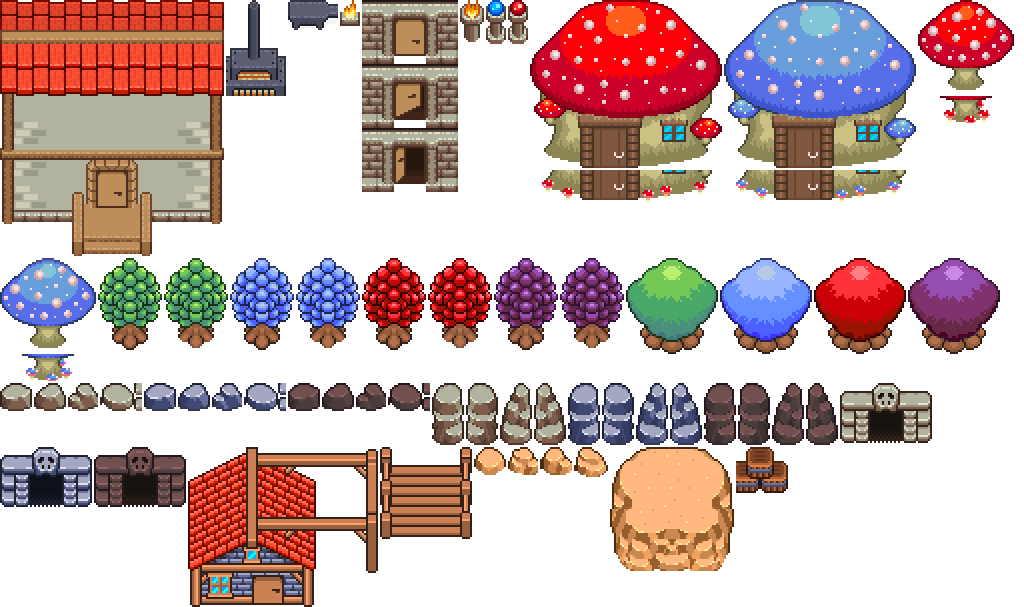
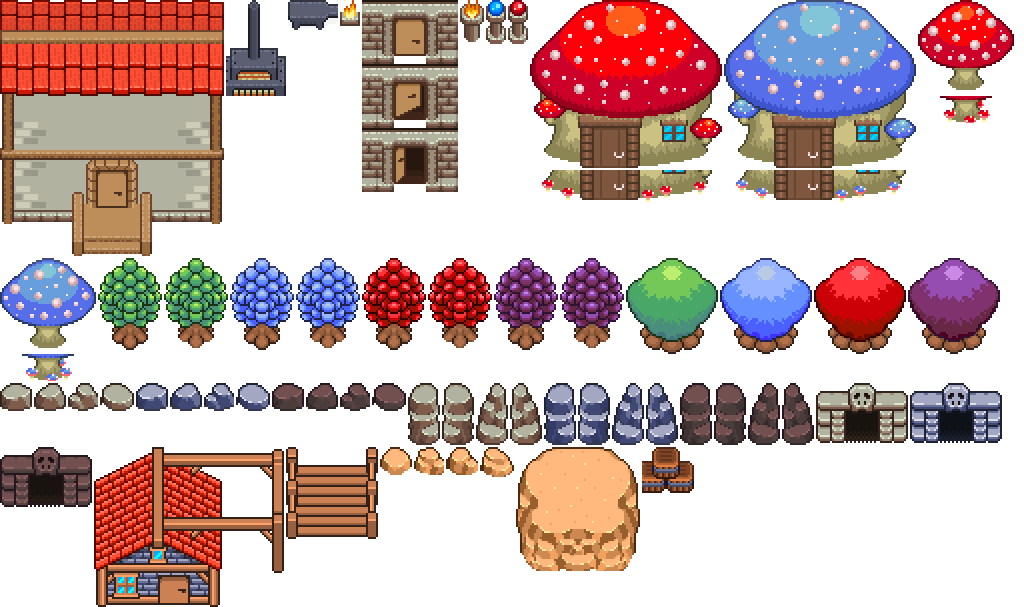
World expansion WIP checkpoint 2 (in progress)
Claude-Session: https://claude.ai/code/session_0116A8vL2QRV3xPtcCSth4E5

Changed region(s): [[0.0, 0.6227, 1.0, 1.0]]

diff --git a/src/ui/art/propAtlas.ts b/src/ui/art/propAtlas.ts
@@ -31,36 +31,36 @@ export const PROP_ATLAS = {
   'rock.beige.1': [0, 383, 32, 28],
   'rock.beige.2': [34, 383, 32, 28],
   'rock.beige.3': [68, 383, 30, 28],
-  'rock.beige.4': [100, 383, 42, 28],
-  'rock.blue.1': [144, 383, 32, 28],
-  'rock.blue.2': [178, 383, 32, 28],
-  'rock.blue.3': [212, 383, 30, 28],
-  'rock.blue.4': [244, 383, 42, 28],
-  'rock.dark.1': [288, 383, 32, 28],
-  'rock.dark.2': [322, 383, 32, 28],
-  'rock.dark.3': [356, 383, 30, 28],
-  'rock.dark.4': [388, 383, 42, 28],
-  'spire.beige.1': [432, 383, 32, 62],
-  'spire.beige.2': [466, 383, 32, 62],
-  'spire.beige.3': [500, 383, 32, 62],
-  'spire.beige.4': [534, 383, 32, 62],
-  'spire.blue.1': [568, 383, 32, 62],
-  'spire.blue.2': [602, 383, 32, 62],
-  'spire.blue.3': [636, 383, 32, 62],
-  'spire.blue.4': [670, 383, 32, 62],
-  'spire.dark.1': [704, 383, 32, 62],
-  'spire.dark.2': [738, 383, 32, 62],
-  'spire.dark.3': [772, 383, 32, 62],
-  'spire.dark.4': [806, 383, 32, 62],
-  'mine.beige': [840, 383, 92, 60],
-  'mine.blue': [0, 447, 92, 60],
-  'mine.dark': [94, 447, 92, 60],
-  'hut': [188, 447, 190, 160],
-  'dock': [380, 447, 92, 92],
-  'rock.orange.1': [474, 447, 32, 28],
-  'rock.orange.2': [508, 447, 30, 28],
-  'rock.orange.3': [540, 447, 32, 28],
-  'rock.orange.4': [574, 447, 34, 30],
-  'mesa.orange': [610, 447, 124, 124],
-  'barrels': [736, 447, 52, 46],
+  'rock.beige.4': [100, 383, 34, 28],
+  'rock.blue.1': [136, 383, 32, 28],
+  'rock.blue.2': [170, 383, 32, 28],
+  'rock.blue.3': [204, 383, 30, 28],
+  'rock.blue.4': [236, 383, 34, 28],
+  'rock.dark.1': [272, 383, 32, 28],
+  'rock.dark.2': [306, 383, 32, 28],
+  'rock.dark.3': [340, 383, 30, 28],
+  'rock.dark.4': [372, 383, 34, 28],
+  'spire.beige.1': [408, 383, 32, 62],
+  'spire.beige.2': [442, 383, 32, 62],
+  'spire.beige.3': [476, 383, 32, 62],
+  'spire.beige.4': [510, 383, 32, 62],
+  'spire.blue.1': [544, 383, 32, 62],
+  'spire.blue.2': [578, 383, 32, 62],
+  'spire.blue.3': [612, 383, 32, 62],
+  'spire.blue.4': [646, 383, 32, 62],
+  'spire.dark.1': [680, 383, 32, 62],
+  'spire.dark.2': [714, 383, 32, 62],
+  'spire.dark.3': [748, 383, 32, 62],
+  'spire.dark.4': [782, 383, 32, 62],
+  'mine.beige': [816, 383, 92, 60],
+  'mine.blue': [910, 383, 92, 60],
+  'mine.dark': [0, 447, 92, 60],
+  'hut': [94, 447, 190, 160],
+  'dock': [286, 447, 92, 92],
+  'rock.orange.1': [380, 447, 32, 28],
+  'rock.orange.2': [414, 447, 30, 28],
+  'rock.orange.3': [446, 447, 32, 28],
+  'rock.orange.4': [480, 447, 34, 30],
+  'mesa.orange': [516, 447, 124, 124],
+  'barrels': [642, 447, 52, 46],
 } as const satisfies Record<string, readonly [number, number, number, number]>;

diff --git a/tools/import_art.py b/tools/import_art.py
@@ -88,7 +88,7 @@ PROPS = [
     *[(f'tree.{c}.{v}', 'forest', (192, y + dy, 32, 46), 2, 1)
       for c, y in TREE_ROWS.items() for v, dy in (('a', 17), ('b', 81))],
     *[(f'tree.{c}.round', 'forest', (233, y + 16, 46, 48), 2, 1) for c, y in TREE_ROWS.items()],
-    *[(f'rock.{s}', 'mountains', (ox + 48, oy + 1, 68, 14), 2, 4) for s, (ox, oy) in ROCK_SETS.items()],
+    *[(f'rock.{s}', 'mountains', (ox + 48, oy + 1, 64, 14), 2, 4) for s, (ox, oy) in ROCK_SETS.items()],
     *[(f'spire.{s}', 'mountains', (ox + 48, oy + 33, 64, 32), 2, 4) for s, (ox, oy) in ROCK_SETS.items()],
     *[(f'mine.{s}', 'mountains', (ox + 1, oy + 210, 46, 30), 2, 1) for s, (ox, oy) in ROCK_SETS.items()],
     ('hut', 'mountains', (304, 512, 95, 80), 2, 1),
